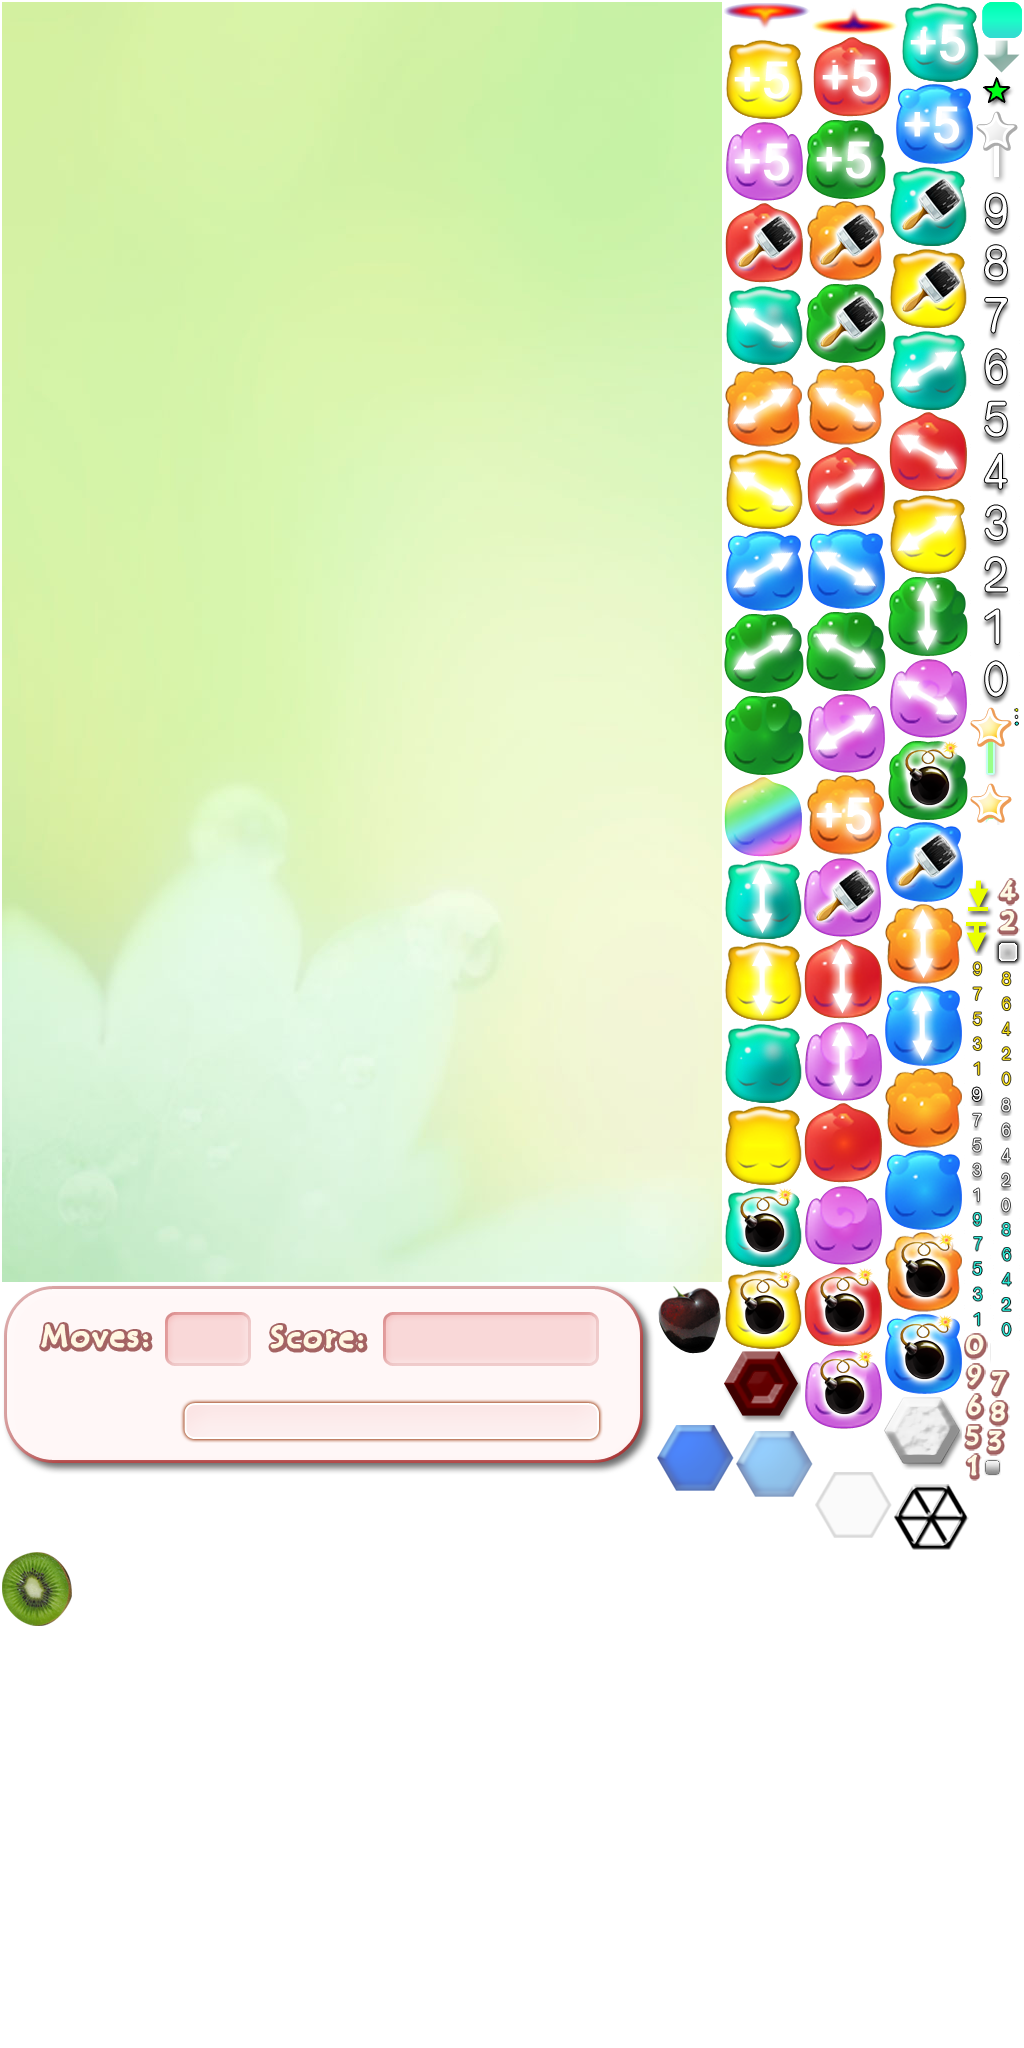
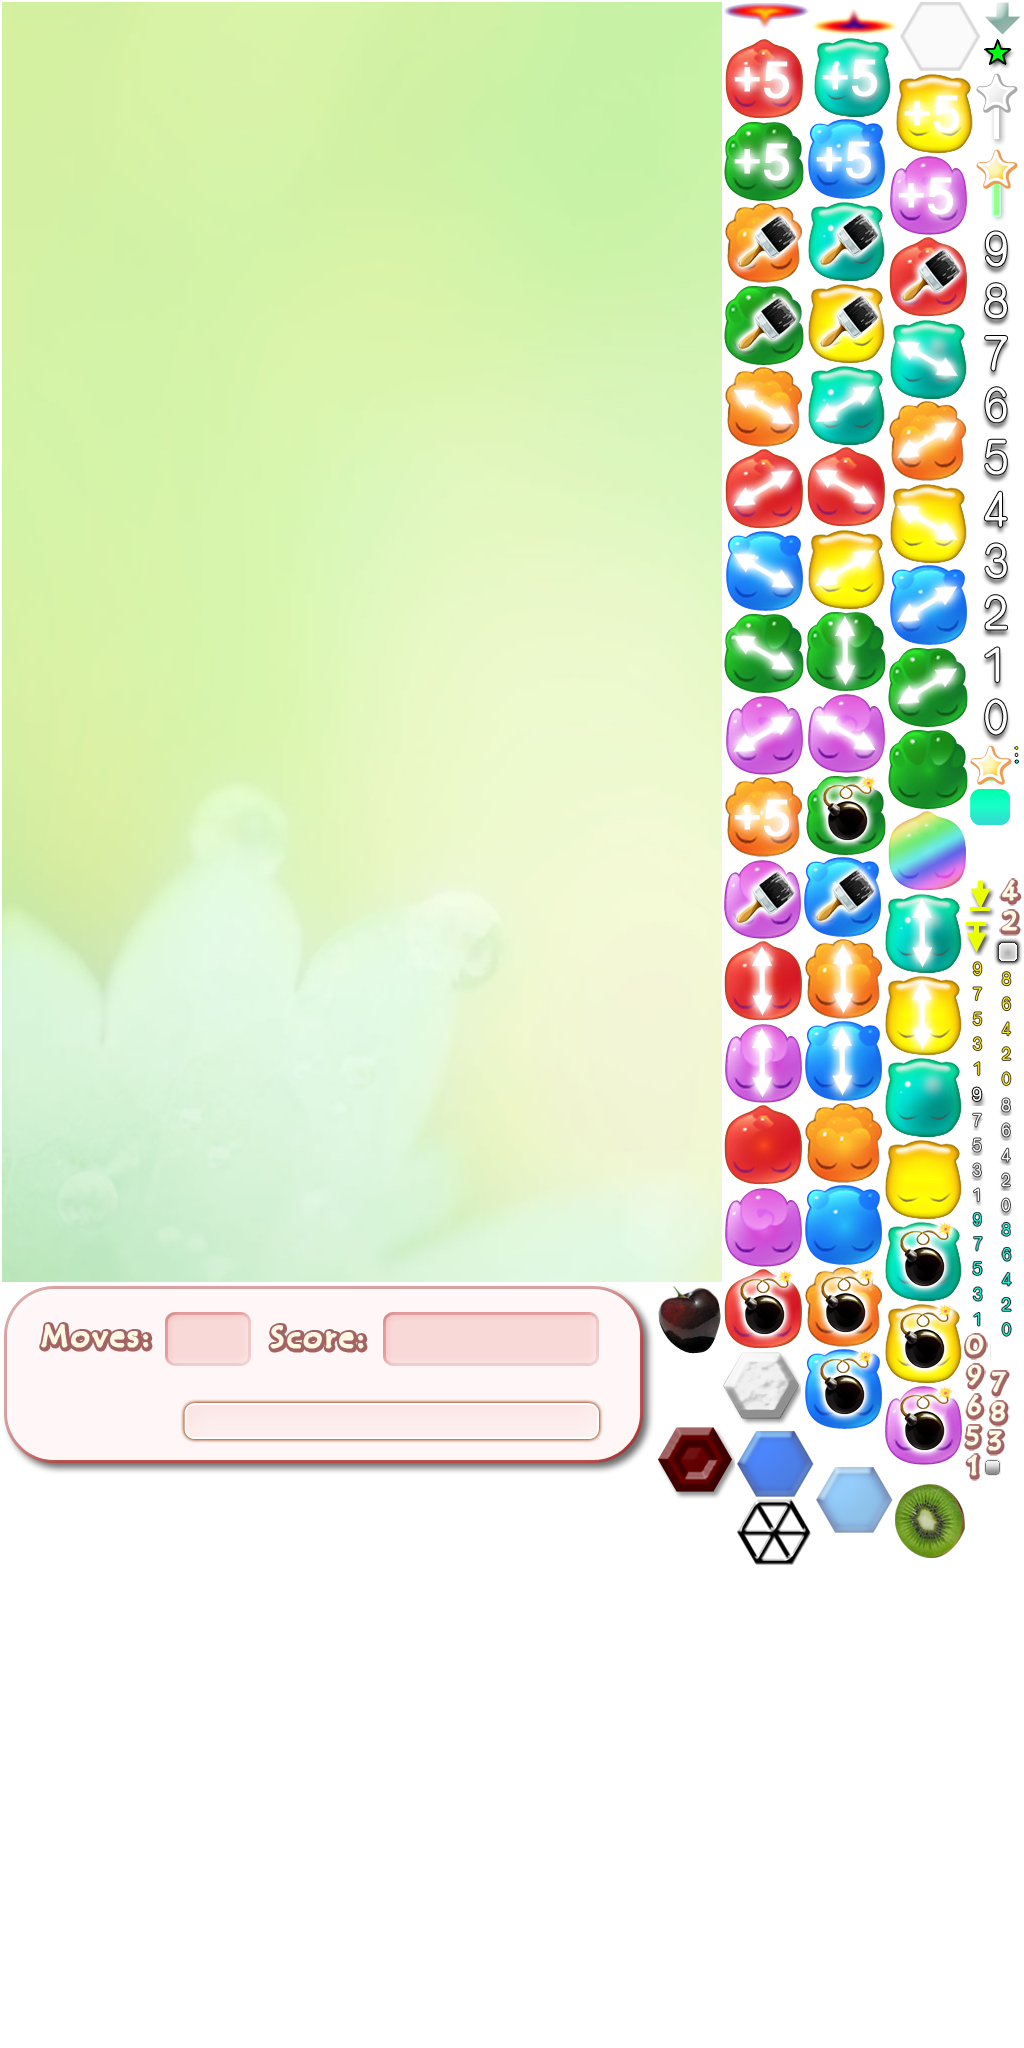
+5再增加一个参数，从游戏开始多少秒之后出+5

Changed region(s): [[0.625, 0.0, 1.0, 0.7812], [0.0, 0.75, 0.0938, 0.8125]]

diff --git a/ClientProject/Assets/CSharpScripts/GameLogic.cs b/ClientProject/Assets/CSharpScripts/GameLogic.cs
@@ -362,13 +362,17 @@ public class GameLogic {
             PlayingStageData.Nut2Count = 0;
         }
 
+        //从随机位置开始
+        int randomPos = m_random.Next() % BlockCountX;
+
         for (int i = 0; i < BlockCountX; i++)
         {
+            int xPos = (randomPos + i) % BlockCountX;
             for (int j = 0; j < BlockCountY; j++)
             {
-                if (PlayingStageData.CheckFlag(i, j, GridFlag.GenerateCap))
+                if (PlayingStageData.CheckFlag(xPos, j, GridFlag.GenerateCap))
                 {
-                    CreateBlock(i, j, true);
+                    CreateBlock(xPos, j, true);
                 }
             }
         }
@@ -2067,11 +2071,14 @@ public class GameLogic {
         m_blocks[x, y].color = color;               //设置颜色
         m_blocks[x, y].id = m_idCount++;
 
-        //处理+5
-        if (PlayingStageData.TimeLimit > 0 && GlobalVars.CurStageData.StepLimit - PlayingStageData.StepLimit > m_lastPlus5Step + PlayingStageData.PlusStep)
+        if (Time.realtimeSinceStartup - m_gameStartTime > PlayingStageData.PlusStartTime)       //若超过了开始掉+5的时间
         {
-            m_blocks[x, y].special = TSpecialBlock.ESpecial_NormalPlus5;            //生成一个+5
-			m_lastPlus5Step = GlobalVars.CurStageData.StepLimit - PlayingStageData.StepLimit;
+            //处理+5
+            if (PlayingStageData.TimeLimit > 0 && GlobalVars.CurStageData.StepLimit - PlayingStageData.StepLimit > m_lastPlus5Step + PlayingStageData.PlusStep)
+            {
+                m_blocks[x, y].special = TSpecialBlock.ESpecial_NormalPlus5;            //生成一个+5
+                m_lastPlus5Step = GlobalVars.CurStageData.StepLimit - PlayingStageData.StepLimit;
+            }
         }
 
         if (avoidLine)

diff --git a/ClientProject/Assets/CSharpScripts/StageData.cs b/ClientProject/Assets/CSharpScripts/StageData.cs
@@ -75,6 +75,7 @@ public class StageData
     public int PlusMaxCount = 3;            //最多同屏数量
     public int PlusInitCount = 1;            //初始化数量
     public int PlusStep = 10;            //步数间隔
+    public int PlusStartTime = 0;           //开始出现+5的时间
 
     public int[]    StarScore = new int[3];          //获得星星的分数
     public int [, ] GridData = new int[GameLogic.BlockCountX, GameLogic.BlockCountY];                        //关卡初始地块数据
@@ -175,6 +176,7 @@ public class StageData
         _config.GetValue<int>("NutStep", out NutStep);
         _config.GetValue<int>("PlusInitCount", out PlusInitCount);
         _config.GetValue<int>("PlusMaxCount", out PlusMaxCount);
+        _config.GetValue<int>("PlusStartTime", out PlusStartTime);
         _config.GetValue<int>("PlusStep", out PlusStep);
         _config.GetValue<int>("Seed", out Seed);
 
@@ -248,6 +250,7 @@ public class StageData
 
         _config.GetValue<int>("PlusInitCount", out PlusInitCount);
         _config.GetValue<int>("PlusMaxCount", out PlusMaxCount);
+        _config.GetValue<int>("PlusStartTime", out PlusStartTime);
         _config.GetValue<int>("PlusStep", out PlusStep);
         int newFormat = 0;
         _config.GetValue<int>("NewFormat", out newFormat);
@@ -342,6 +345,7 @@ public class StageData
 
         _config.Write("PlusInitCount", PlusInitCount);
         _config.Write("PlusMaxCount", PlusMaxCount);
+        _config.Write("PlusStartTime", PlusStartTime);
         _config.Write("PlusStep", PlusStep);
 
         _config.Write("Seed", Seed);

diff --git a/ClientProject/Assets/CSharpScripts/UIScripts/UIStageEditor.cs b/ClientProject/Assets/CSharpScripts/UIScripts/UIStageEditor.cs
@@ -240,6 +240,9 @@ public class UIStageEditor : UIWindowNGUI
         input = GetChildComponent<UIInput>("PlusStep");
         input.text = GlobalVars.CurStageData.PlusStep.ToString();
 
+        input = GetChildComponent<UIInput>("PlusStartTime");
+        input.text = GlobalVars.CurStageData.PlusStartTime.ToString();
+
         for (int i = 0; i < 3; ++i )
         {
             input = GetChildComponent<UIInput>("Star" + (i +1));
@@ -322,6 +325,10 @@ public class UIStageEditor : UIWindowNGUI
         input = GetChildComponent<UIInput>("PlusMaxCount");
         int plusMaxCount = (int)System.Convert.ChangeType(input.text, typeof(int));
         GlobalVars.CurGameLogic.PlayingStageData.PlusMaxCount = plusMaxCount;
+
+        input = GetChildComponent<UIInput>("PlusStartTime");
+        int plusStartTime = (int)System.Convert.ChangeType(input.text, typeof(int));
+        GlobalVars.CurGameLogic.PlayingStageData.PlusStartTime = plusStartTime;
 
         input = GetChildComponent<UIInput>("PlusStep");
         int plusStep = (int)System.Convert.ChangeType(input.text, typeof(int));
